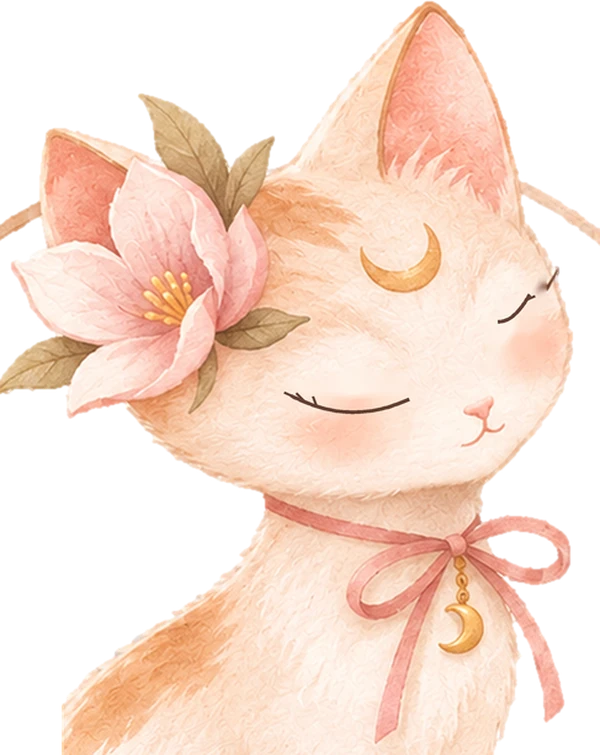
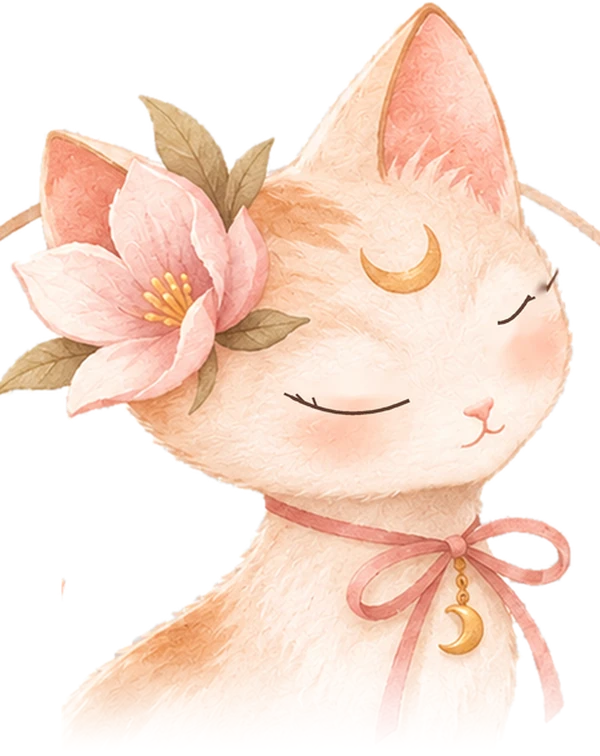
Blink cat frames with a soft fade at the bottom (600 x 756)

diff --git a/test/looma_loaders_test.dart b/test/looma_loaders_test.dart
@@ -51,8 +51,8 @@ Future<bool> _blinkedWithin(WidgetTester tester, Duration total) async {
 void main() {
   group('the picture files', () {
     for (final (path, width, height, limitKb) in [
-      (LoomaCatBlink.openAsset, 600, 755, 120),
-      (LoomaCatBlink.closedAsset, 600, 755, 120),
+      (LoomaCatBlink.openAsset, 600, 756, 120),
+      (LoomaCatBlink.closedAsset, 600, 756, 120),
       (LoomaLoader.ballAsset, 400, 400, 60),
       (CardPictures.yarnFull, 600, 571, 100),
     ]) {
